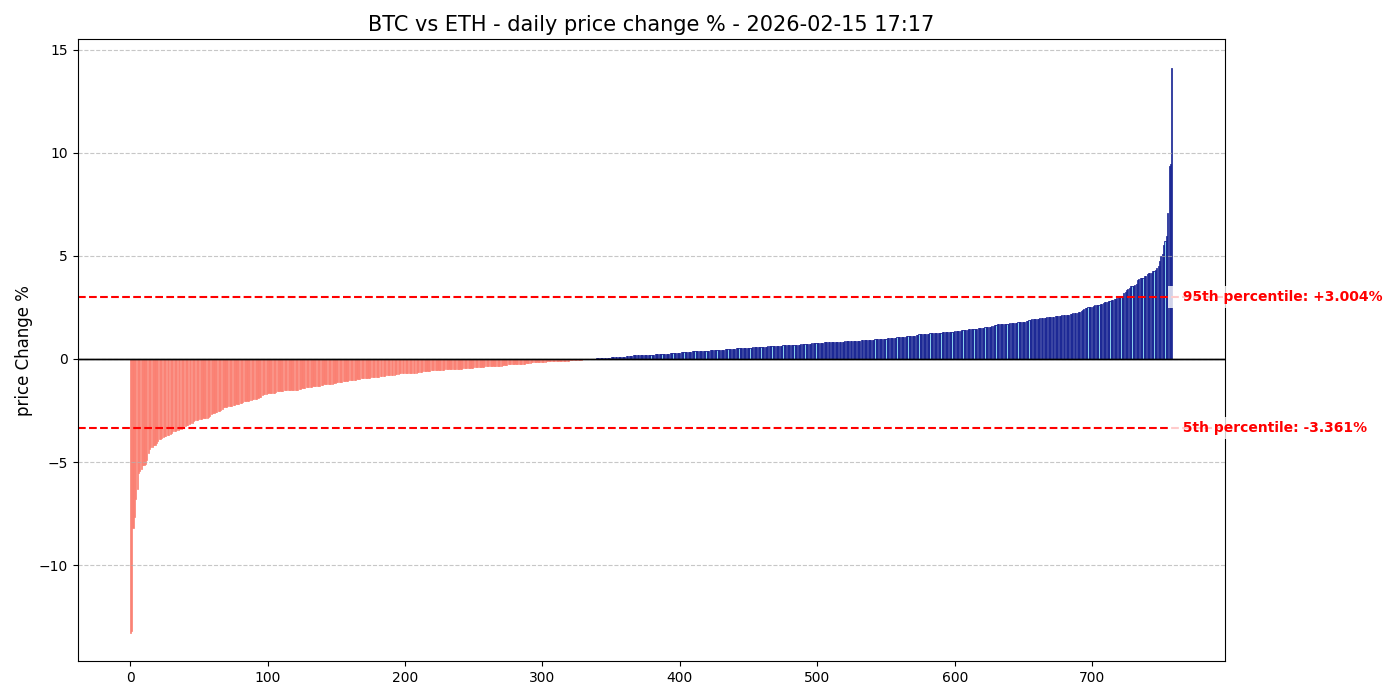
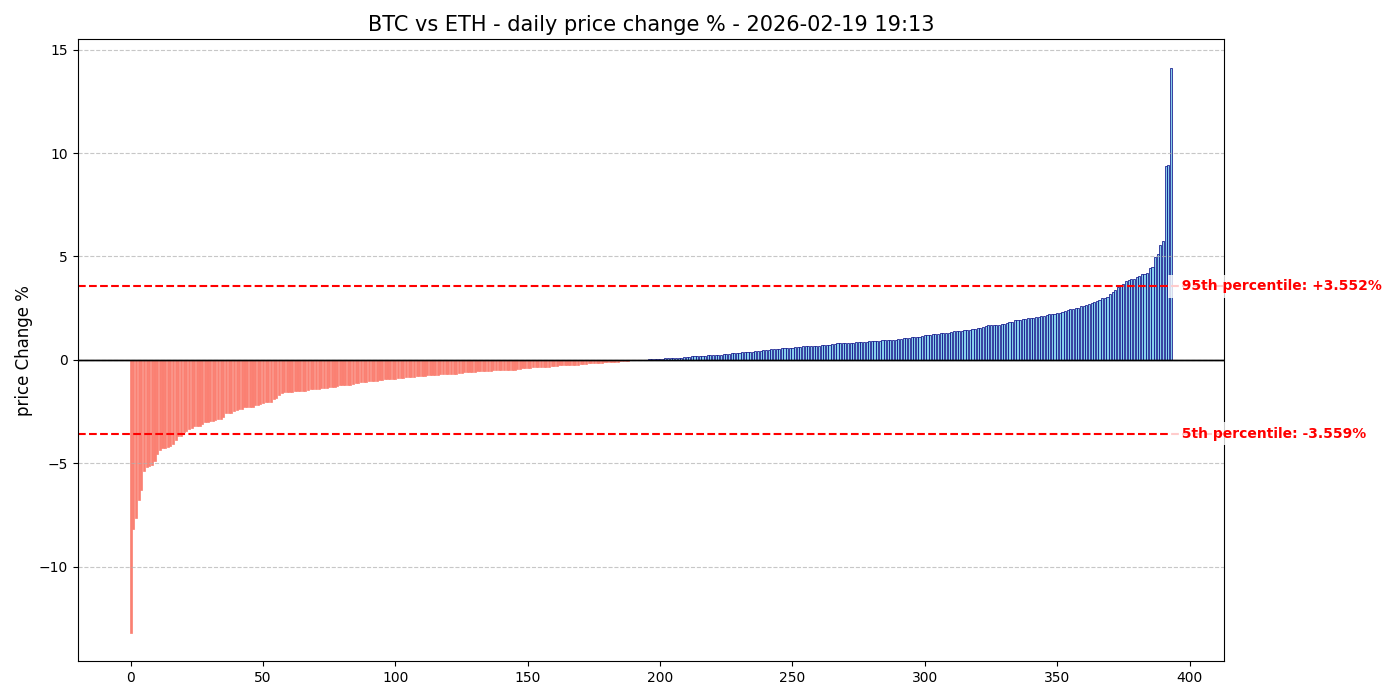
removed year from file names

diff --git a/src/getStats.py b/src/getStats.py
@@ -18,9 +18,9 @@ def get_stats(asset1: str, asset2: str) -> None:
     print('')
     print('lets go baby..')
 
-    download_crypto_daily_closing(asset1)
+    download_crypto_daily_closing(crypto_symbol=asset1, years=1)
     time.sleep(1)
-    download_crypto_daily_closing(asset2)
+    download_crypto_daily_closing(crypto_symbol=asset2, years=1)
 
     get_price_ratio(asset1, asset2)
 
@@ -30,7 +30,7 @@ def get_stats(asset1: str, asset2: str) -> None:
 
     draw_graph(asset1, asset2)
 
-    generate_replicates(asset1, asset2, 10)
+    generate_replicates(asset1, asset2, 100)
 
     sort_reps(asset1, asset2)
 

diff --git a/src/getPriceRatio.py b/src/getPriceRatio.py
@@ -12,8 +12,8 @@ def get_price_ratio(asset1='btc', asset2='eth'):
     print("")
     print(f" --- calculating {asset1}/{asset2} price ratio ---")
 
-    df1 = _load(f'{asset1}_daily_closing_2years.csv', ['date', f'{asset1}_closing_price_usd'])
-    df2 = _load(f'{asset2}_daily_closing_2years.csv', ['date', f'{asset2}_closing_price_usd'])
+    df1 = _load(f'{asset1}_daily_closing.csv', ['date', f'{asset1}_closing_price_usd'])
+    df2 = _load(f'{asset2}_daily_closing.csv', ['date', f'{asset2}_closing_price_usd'])
    
     print('')
     print(df1)

diff --git a/src/downloadPriceData.py b/src/downloadPriceData.py
@@ -33,8 +33,9 @@ def download_crypto_daily_closing(crypto_symbol: str, fiat_symbol: str = 'usd', 
     print('')
     print(f' --- checking data on {crypto_symbol} --- ')
 
-    fileName = f'{crypto_symbol.lower()}_daily_closing_{years}years.csv'
-  
+    #fileName = f'{crypto_symbol.lower()}_daily_closing_{years}years.csv'
+    fileName = f'{crypto_symbol.lower()}_daily_closing.csv'
+
     if not download_new_file(fileName, crypto_symbol):
         # skip download if existing data is good
         return

diff --git a/src/priceData.py b/src/priceData.py
@@ -44,8 +44,9 @@ def download_crypto_daily_closing(crypto_symbol: str, fiat_symbol: str = 'usd', 
     print('')
     print(f' --- checking data on {crypto_symbol} --- ')
 
-    fileName = f'{crypto_symbol.lower()}_daily_closing_{years}years.csv'
-  
+    #fileName = f'{crypto_symbol.lower()}_daily_closing_{years}years.csv'
+    fileName = f'{crypto_symbol.lower()}_daily_closing.csv'
+
     if not download_new_file(fileName, crypto_symbol):
         # skip download if existing data is good
         return
